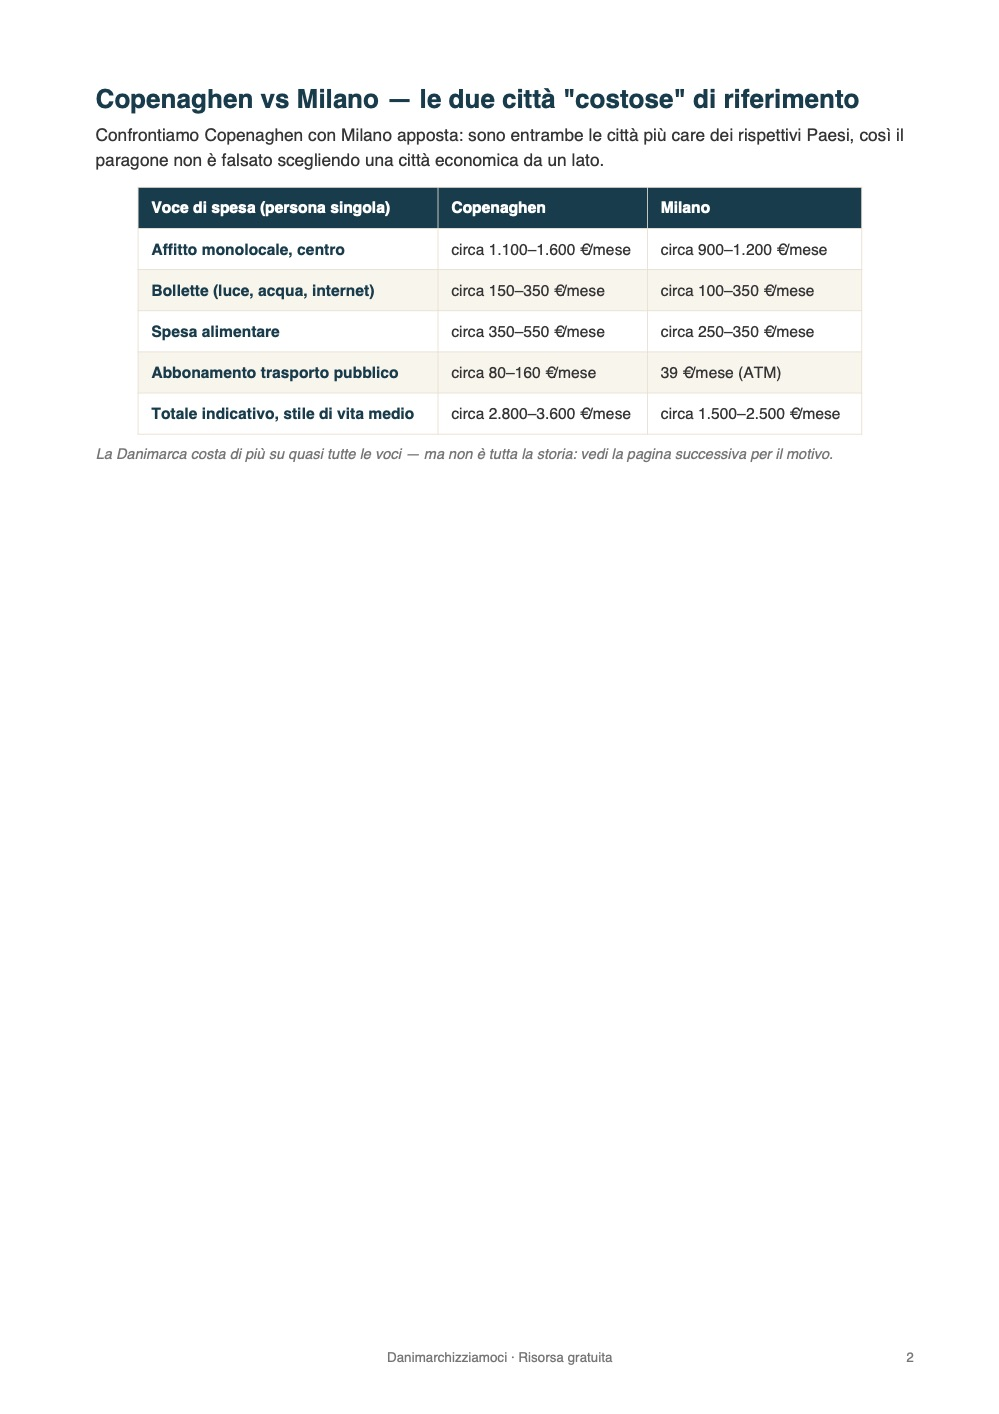
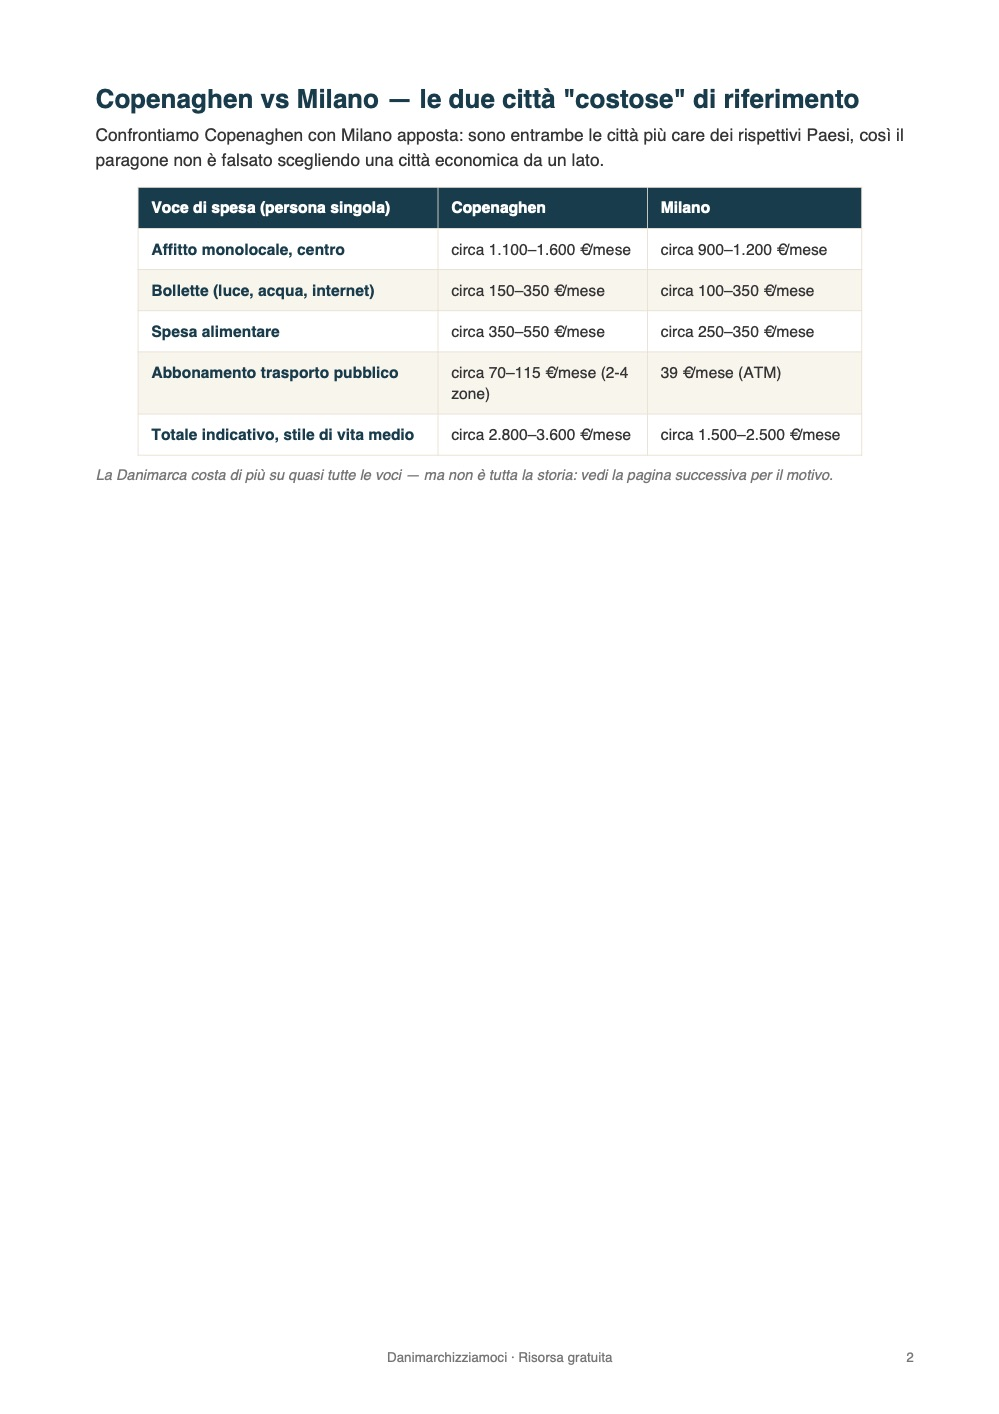
Add files via upload

Changed region(s): [[0.0931, 0.2489, 0.8378, 0.3423]]

diff --git a/index.html b/index.html
@@ -20,6 +20,7 @@
   <button class="tab-btn" data-tab="gratis">🎁 Gratis</button>
   <button class="tab-btn" data-tab="lavoro">💼 Posizioni aperte</button>
   <button class="tab-btn" data-tab="domanda">❓ Chiedi a Lucy</button>
+  <button class="tab-btn" data-tab="professionisti">👥 Professionisti</button>
 </nav>
 
 <main>
@@ -125,6 +126,30 @@
       <a class="btn-primary" href="https://danimarchizziamoci.eu/cv-e-cover-letter/"
          target="_blank" rel="noopener">Scopri il servizio CV</a>
     </div>
+  </section>
+  <!-- TAB PROFESSIONISTI (elenco professionisti italiani) -->
+  <section id="tab-professionisti" class="tab-content">
+    <div class="card">
+      <h3>👥 Professionisti italiani in Danimarca</h3>
+      <p>Commercialisti, avvocati, psicologi, insegnanti di danese, traslochi e altri servizi:
+      professionisti italiani che lavorano in Danimarca e parlano la tua lingua.</p>
+      <p><strong>L'elenco è in arrivo.</strong> Stiamo raccogliendo le adesioni.</p>
+    </div>
+
+    <div id="professionals-list"></div>
+
+    <div class="card">
+      <h3>Sei un professionista italiano in Danimarca?</h3>
+      <p>L'inserimento è gratuito. Scrivimi a
+      <a href="mailto:danimarchizziamoci@gmail.com?subject=Elenco%20professionisti">danimarchizziamoci@gmail.com</a>
+      con nome, professione, zona in cui lavori, lingue, una breve descrizione, i contatti da
+      pubblicare, il tuo sito o portfolio e il numero CVR.</p>
+      <p class="checklist-intro">Pubblico i tuoi dati solo dopo il tuo consenso scritto, e puoi chiedere
+      di essere rimosso in qualsiasi momento.</p>
+    </div>
+
+    <p class="fine-print">Questo è un elenco di professionisti segnalati: Danimarchizziamoci non garantisce
+    per il loro lavoro. Prima di affidare un incarico, chiedi sempre un preventivo scritto.</p>
   </section>
 </main>
 
